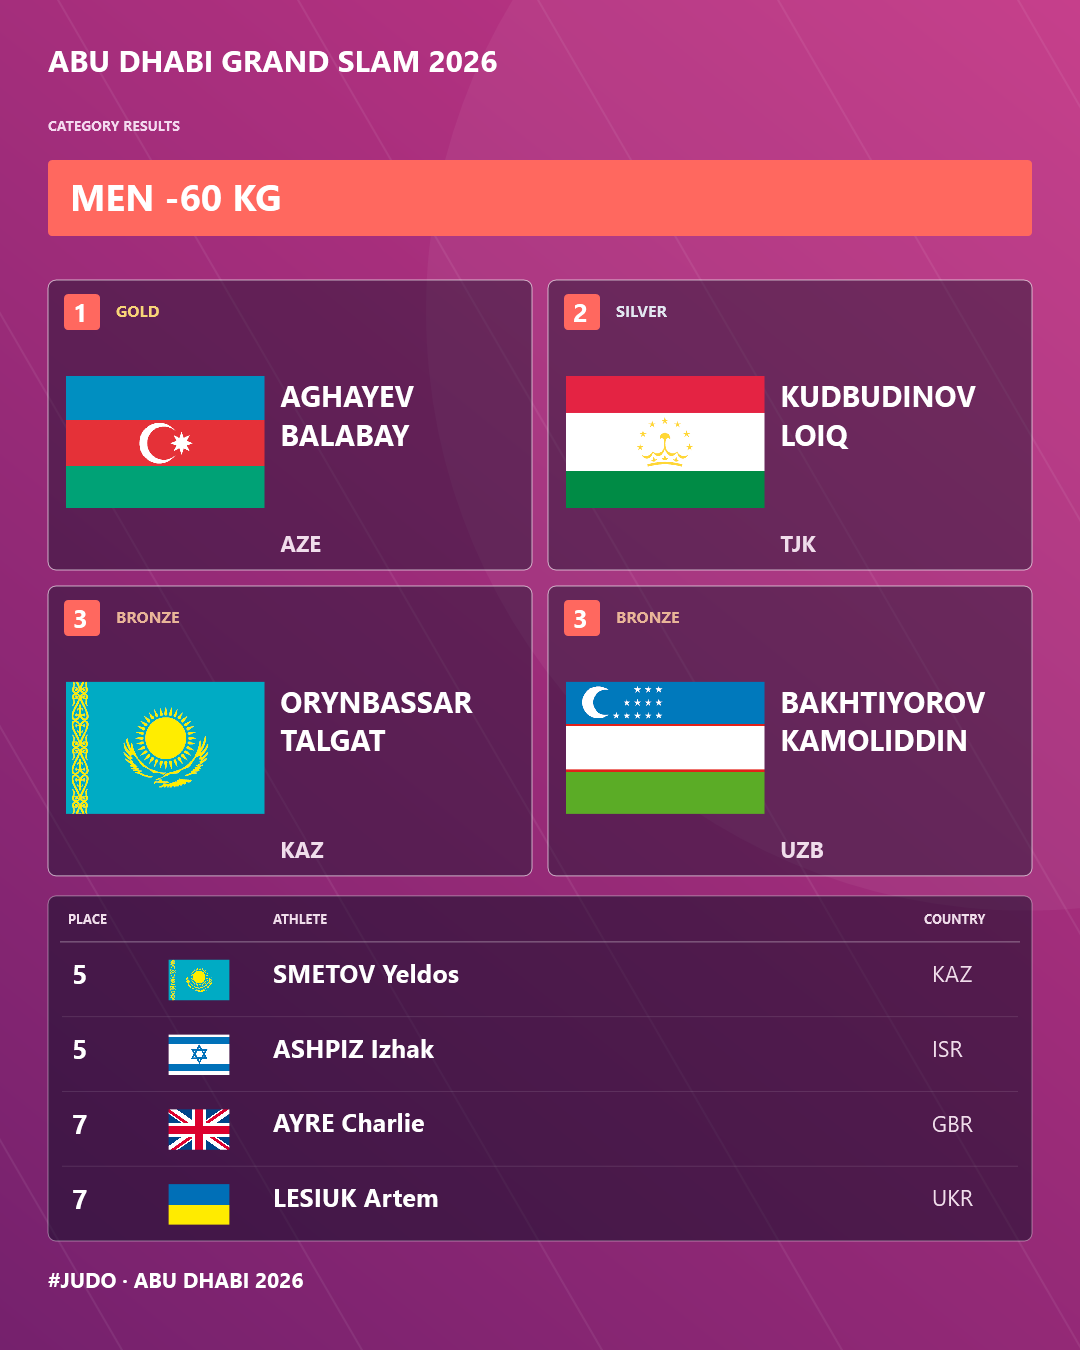
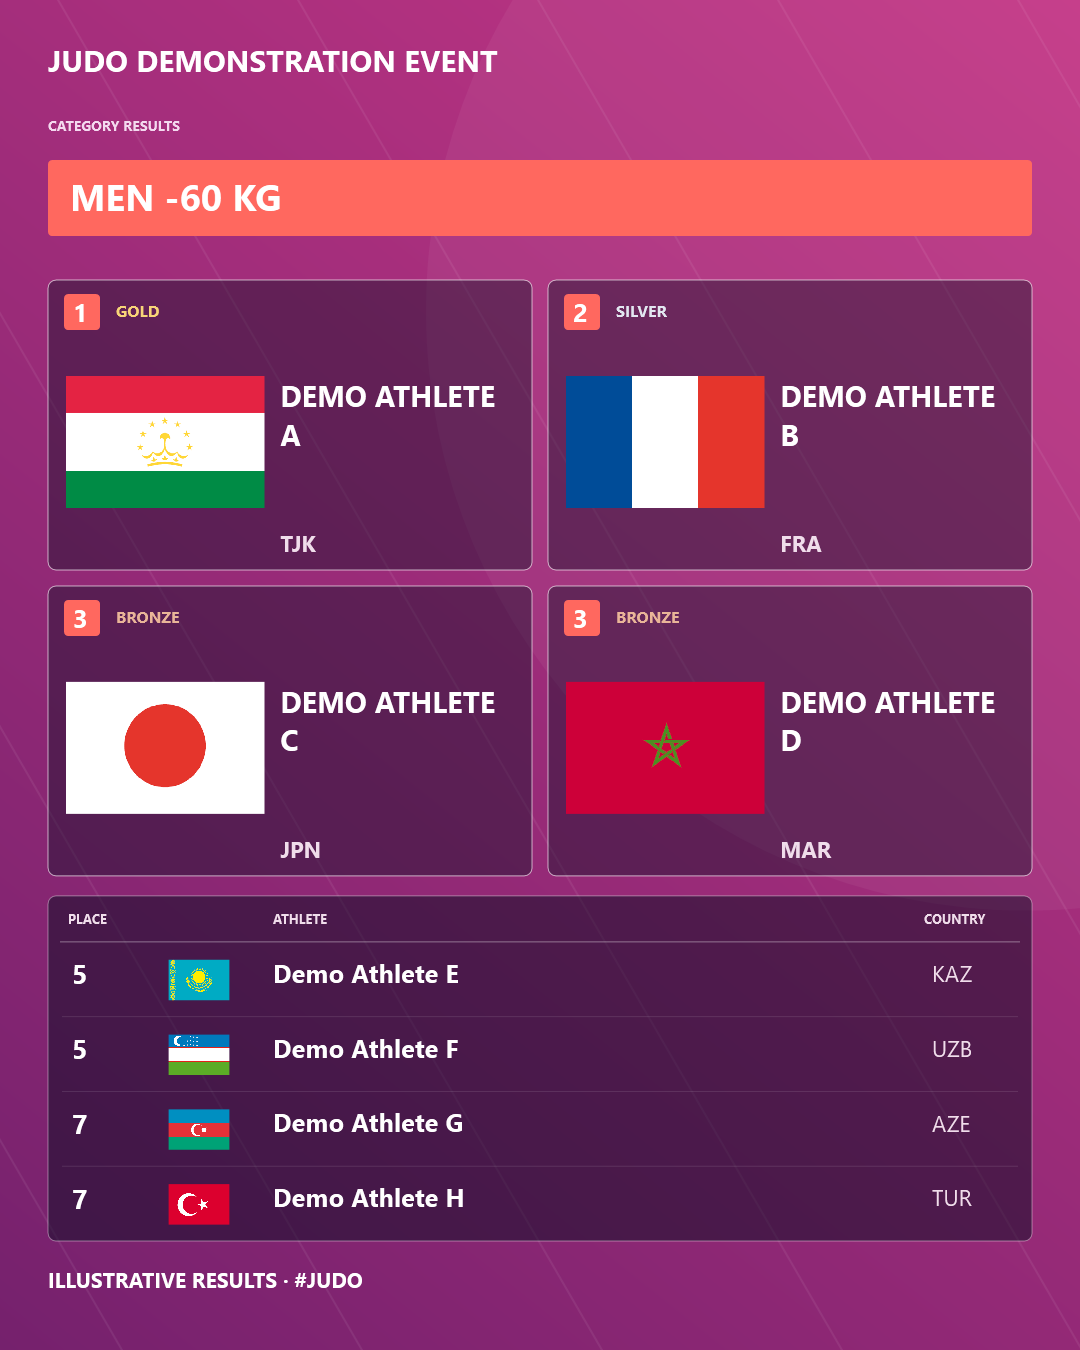
Use fictional rehearsal results in README poster examples

diff --git a/README.md b/README.md
@@ -283,7 +283,7 @@ Choose **Worldwide**, **AJU · Africa**, **JUA · Asia**, **EJU · Europe**, **O
 | PJC | 37 |
 | Other / unlisted | 50 |
 
-This uses judo membership rather than geographic guesses. Israel and Türkiye are included in EJU; Kazakhstan is included in JUA. IJF aliases SGP, NFI and MNP map to the app's existing SIN, NFK and NMI catalog identities. The app continues to display its existing three-letter codes and flag artwork. Membership does not establish eligibility for a particular event.
+This uses judo membership rather than geographic guesses. France and Türkiye are included in EJU; Kazakhstan is included in JUA. IJF aliases SGP, NFI and MNP map to the app's existing SIN, NFK and NMI catalog identities. The app continues to display its existing three-letter codes and flag artwork. Membership does not establish eligibility for a particular event.
 
 ## Competition country list
 
@@ -318,7 +318,7 @@ Version 0.19 continues to save **schema 8**. Version 0.16 and newer can read tha
 
 Open **7 Create social post**, immediately after Final block. The **Preparation → Social export…** shortcut also takes you there. Choose a day and category, then **Create / edit social post…**. The editor restores a remembered poster first, otherwise starts with available category medals. You can enter results before a podium is prepared.
 
-![Social editor with layout choices and the IJF link](images/social-editor.png)
+![Social editor with layout choices and the IJF link](images/social-demo-editor.png)
 
 1. Paste an IJF competition link and choose **Read IJF results**.
 2. Select a published category, then **Use selected results** to fill medal entries and available 5th/7th places. Review country codes, names and the source before exporting.
@@ -332,7 +332,7 @@ Open **7 Create social post**, immediately after Final block. The **Preparation 
 | Square post | 1080 × 1080 |
 | Story | 1080 × 1920 |
 
-![Example flag-grid portrait export](images/social-flag-grid.png)
+![Example flag-grid portrait export](images/social-demo-flag-grid.png)
 
 These images use illustrative rehearsal data. This version contains **no athlete photos**. Posters use horizontal flags and support shorter or no-gold/two-silver podiums. Unknown countries, conflicting top-eight copies and invalid rows require review. Fifth and seventh places never become ceremony medals.
 
